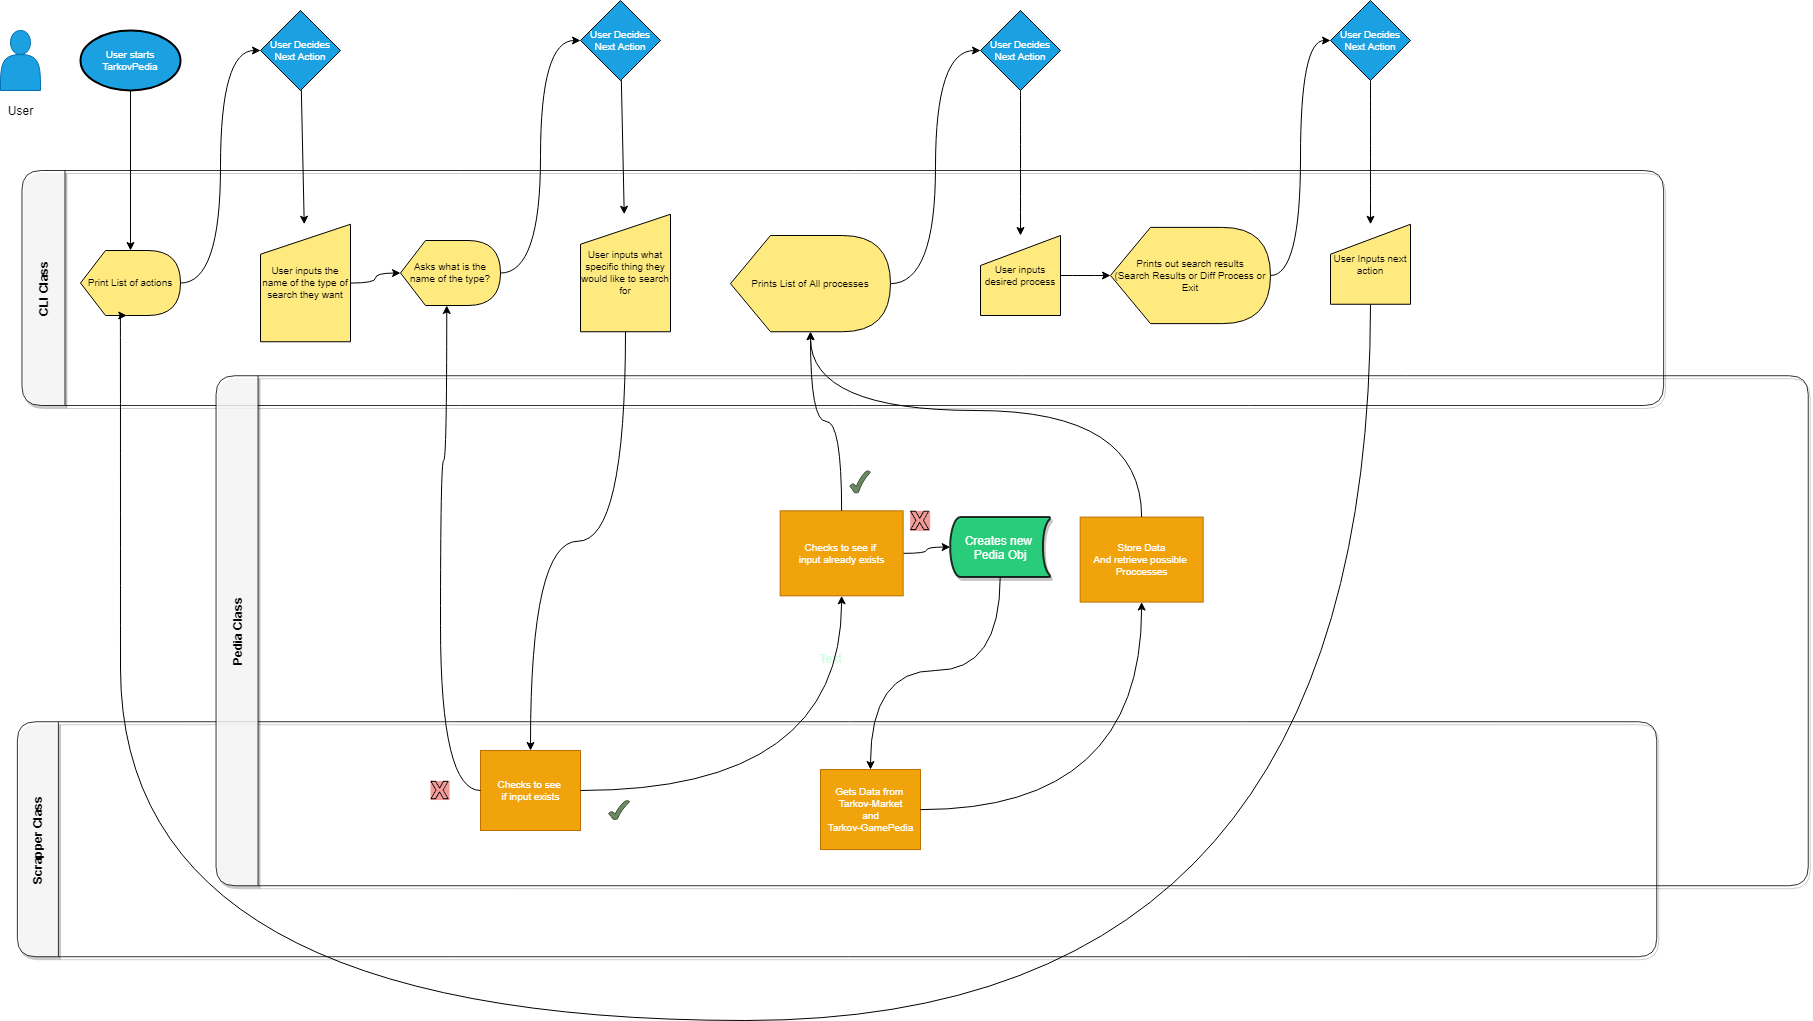
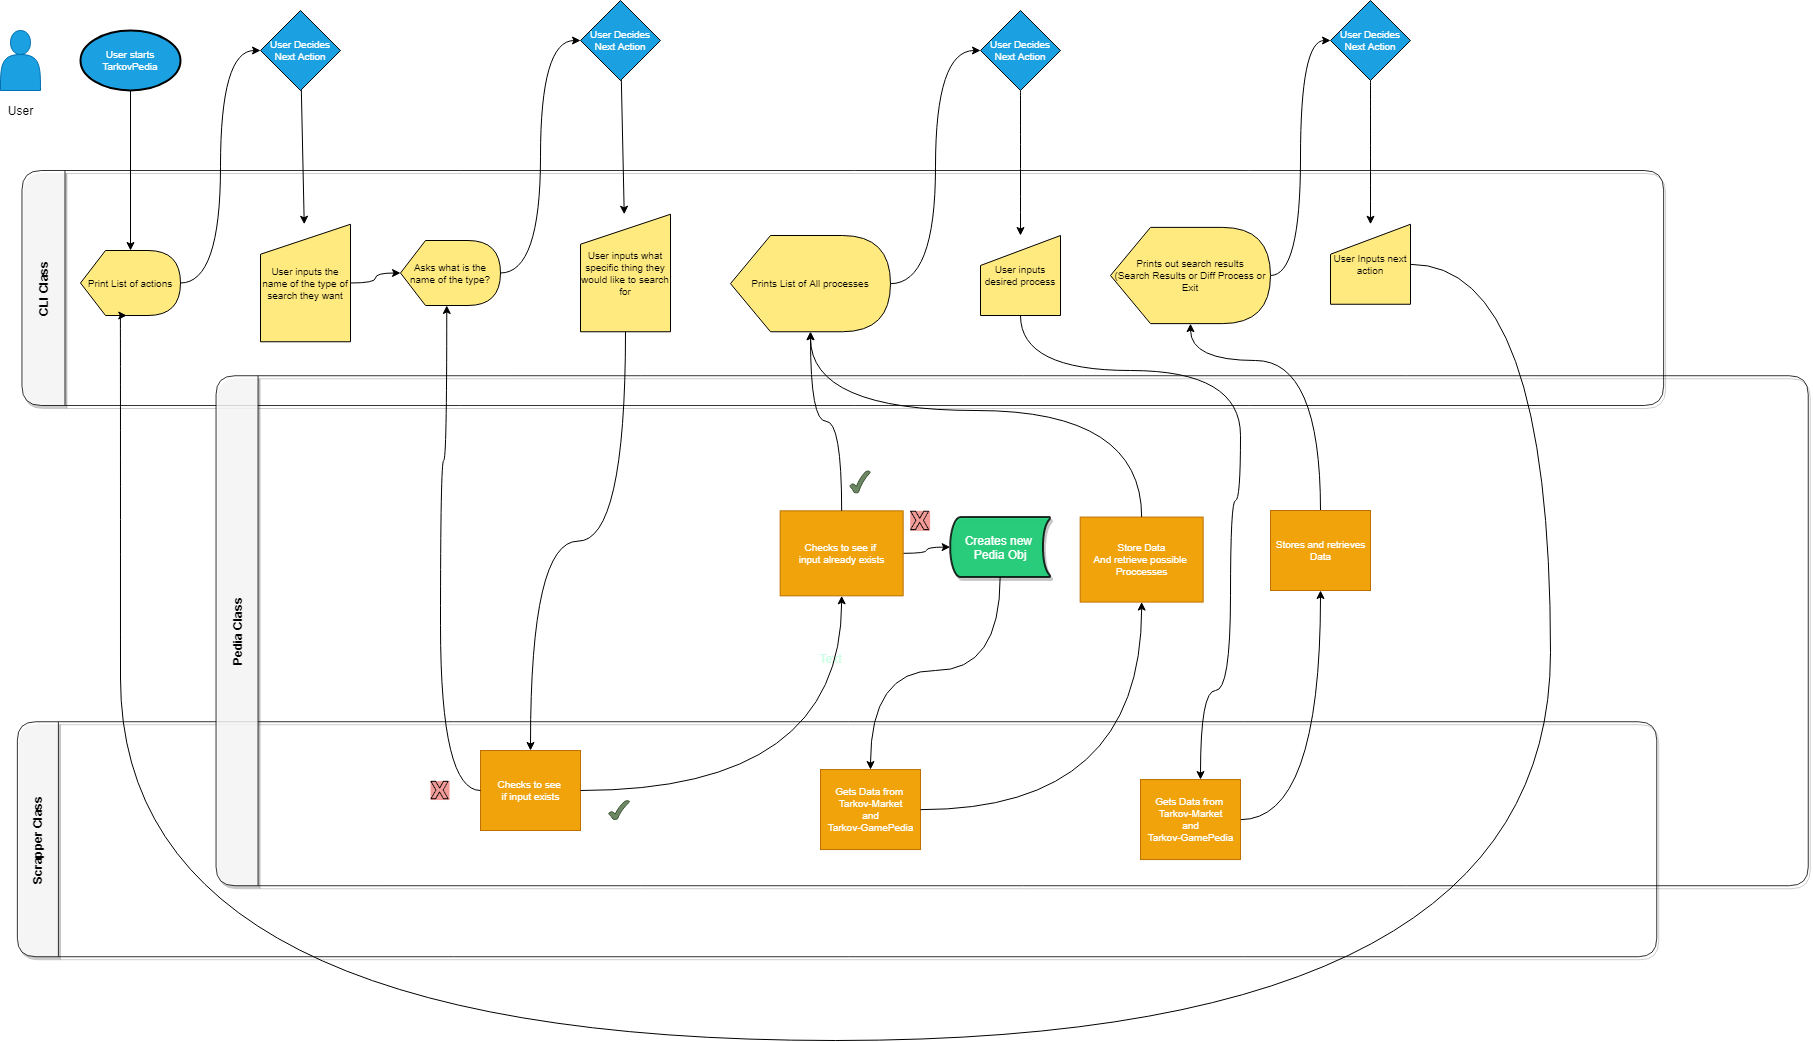
Changed the flow chart logic to only store the data for the process that is wanted, rather than storing all the data in the obj.

diff --git a/lib/tarkov_pedia/cli.rb b/lib/tarkov_pedia/cli.rb
@@ -10,8 +10,8 @@ class TarkovPedia::CLI
         
         interest = list_interests
         name = self.name?(interest)
-        process = self.list_processes(interest, name) 
         pedia = TarkovPedia::Pedia.find_or_create_by_interest_name(interest, name) #creates Pedia Obj
+        process = self.list_processes(interest, name) 
         pedia.process = process #assigns the process to pedia
 
         display_results(pedia)
@@ -21,13 +21,13 @@ class TarkovPedia::CLI
 
     # returns - string (the interest without the s)
     def list_interests
-        #Eventually I want to add more search types, for now I will work with Items only
-        # Consider : Changing the name of variables from interest to type later
+        #list_interest(pedia) -- puts pedia.list_processes 
         list = <<-DOC
         What would you like to search for?
         1. Items
         2. Quests
         DOC
+        
         puts list
         interest = gets.chomp.downcase #Items
         while interest != 'items'
